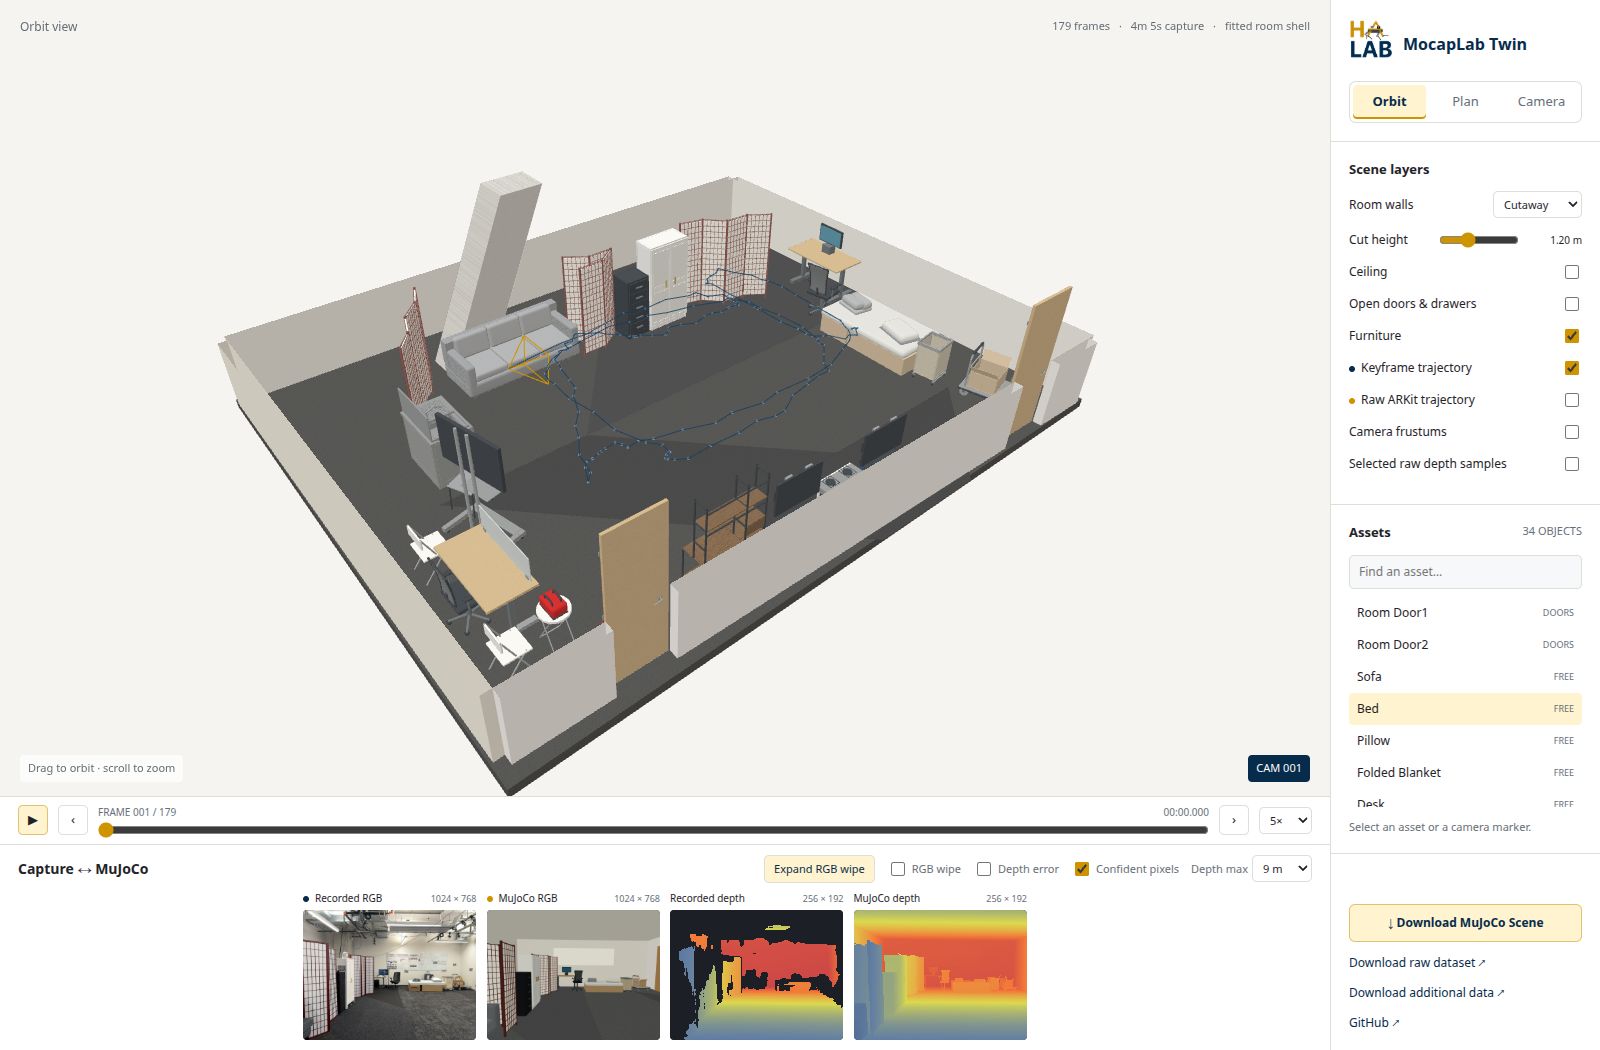
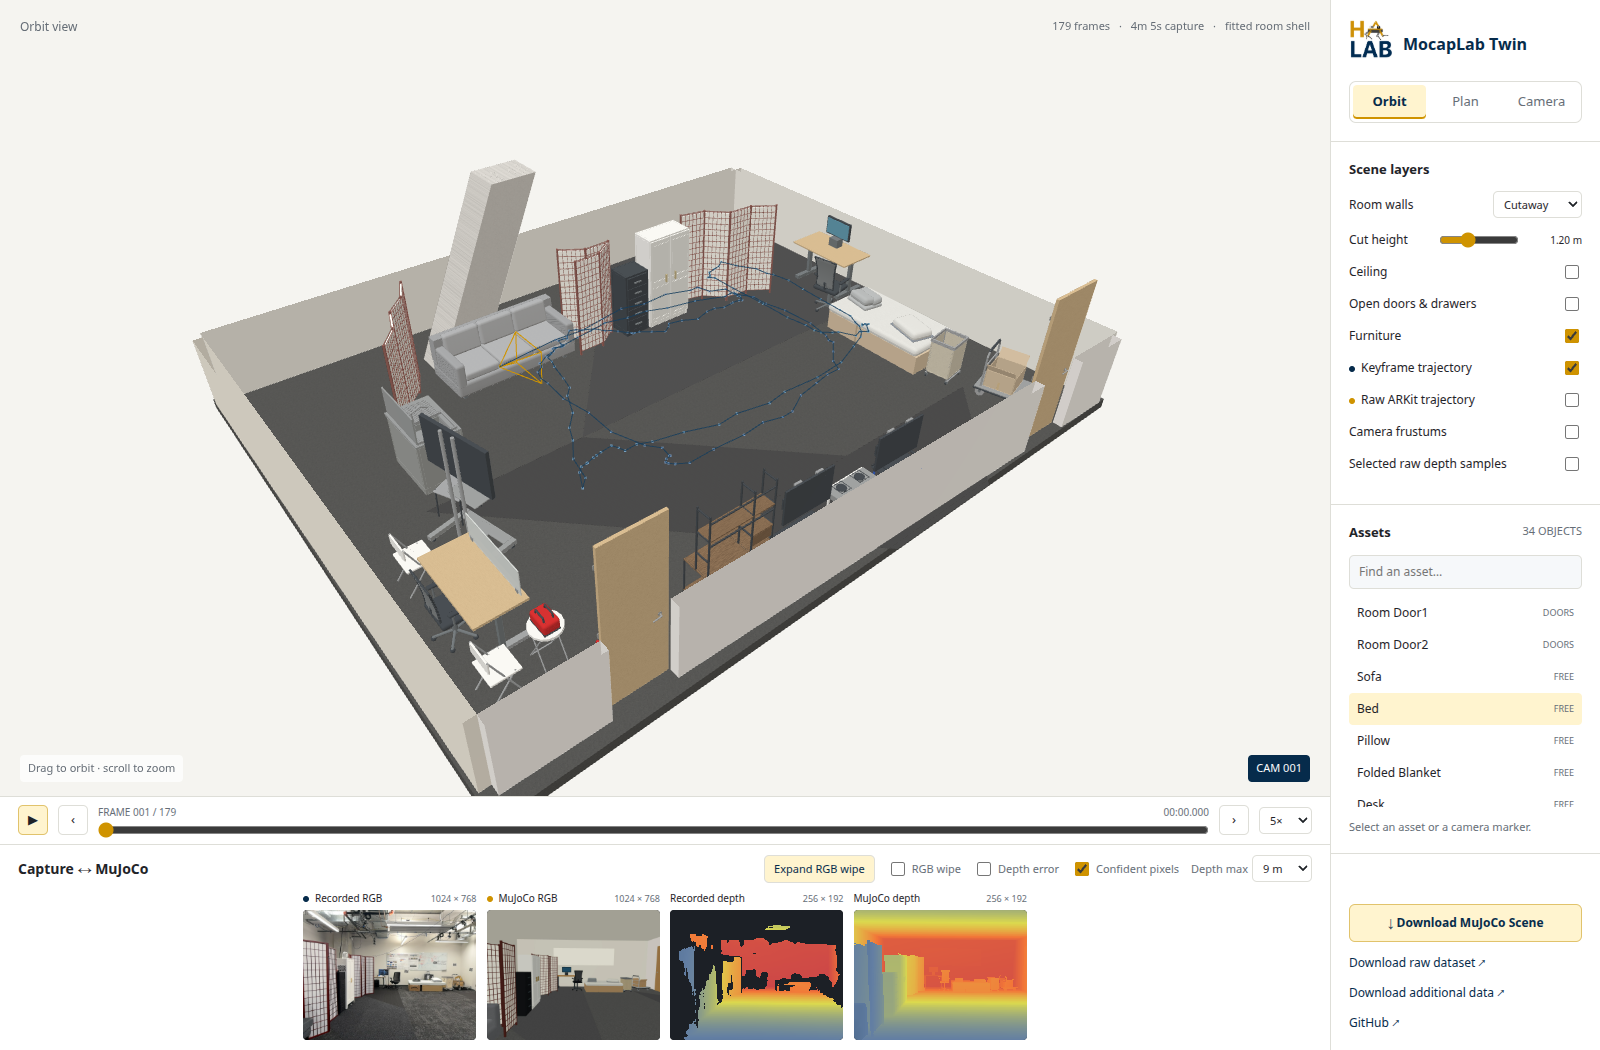
Bring the default orbit camera slightly closer

diff --git a/mujoco_scene/web/app.js b/mujoco_scene/web/app.js
@@ -1,7 +1,7 @@
 import * as THREE from 'three';
 import { OrbitControls } from 'three/addons/controls/OrbitControls.js';
 const $=id=>document.getElementById(id);
-const orbitPosition=[-7.6,-9.5,9];
+const orbitPosition=[-7.22,-9.025,8.55];
 const state={index:0,loaded:-1,mode:'orbit',playing:false,pair:null,selected:null};
 let manifest,renderer,scene,camera,controls,framePoints,pathLine,denseLine,allFrustums,currentFrustum,rawPoints;
 const meshList=[],assetMeshes=new Map(),cache=new Map(),meshById=new Map(),jointStates=new Map();
